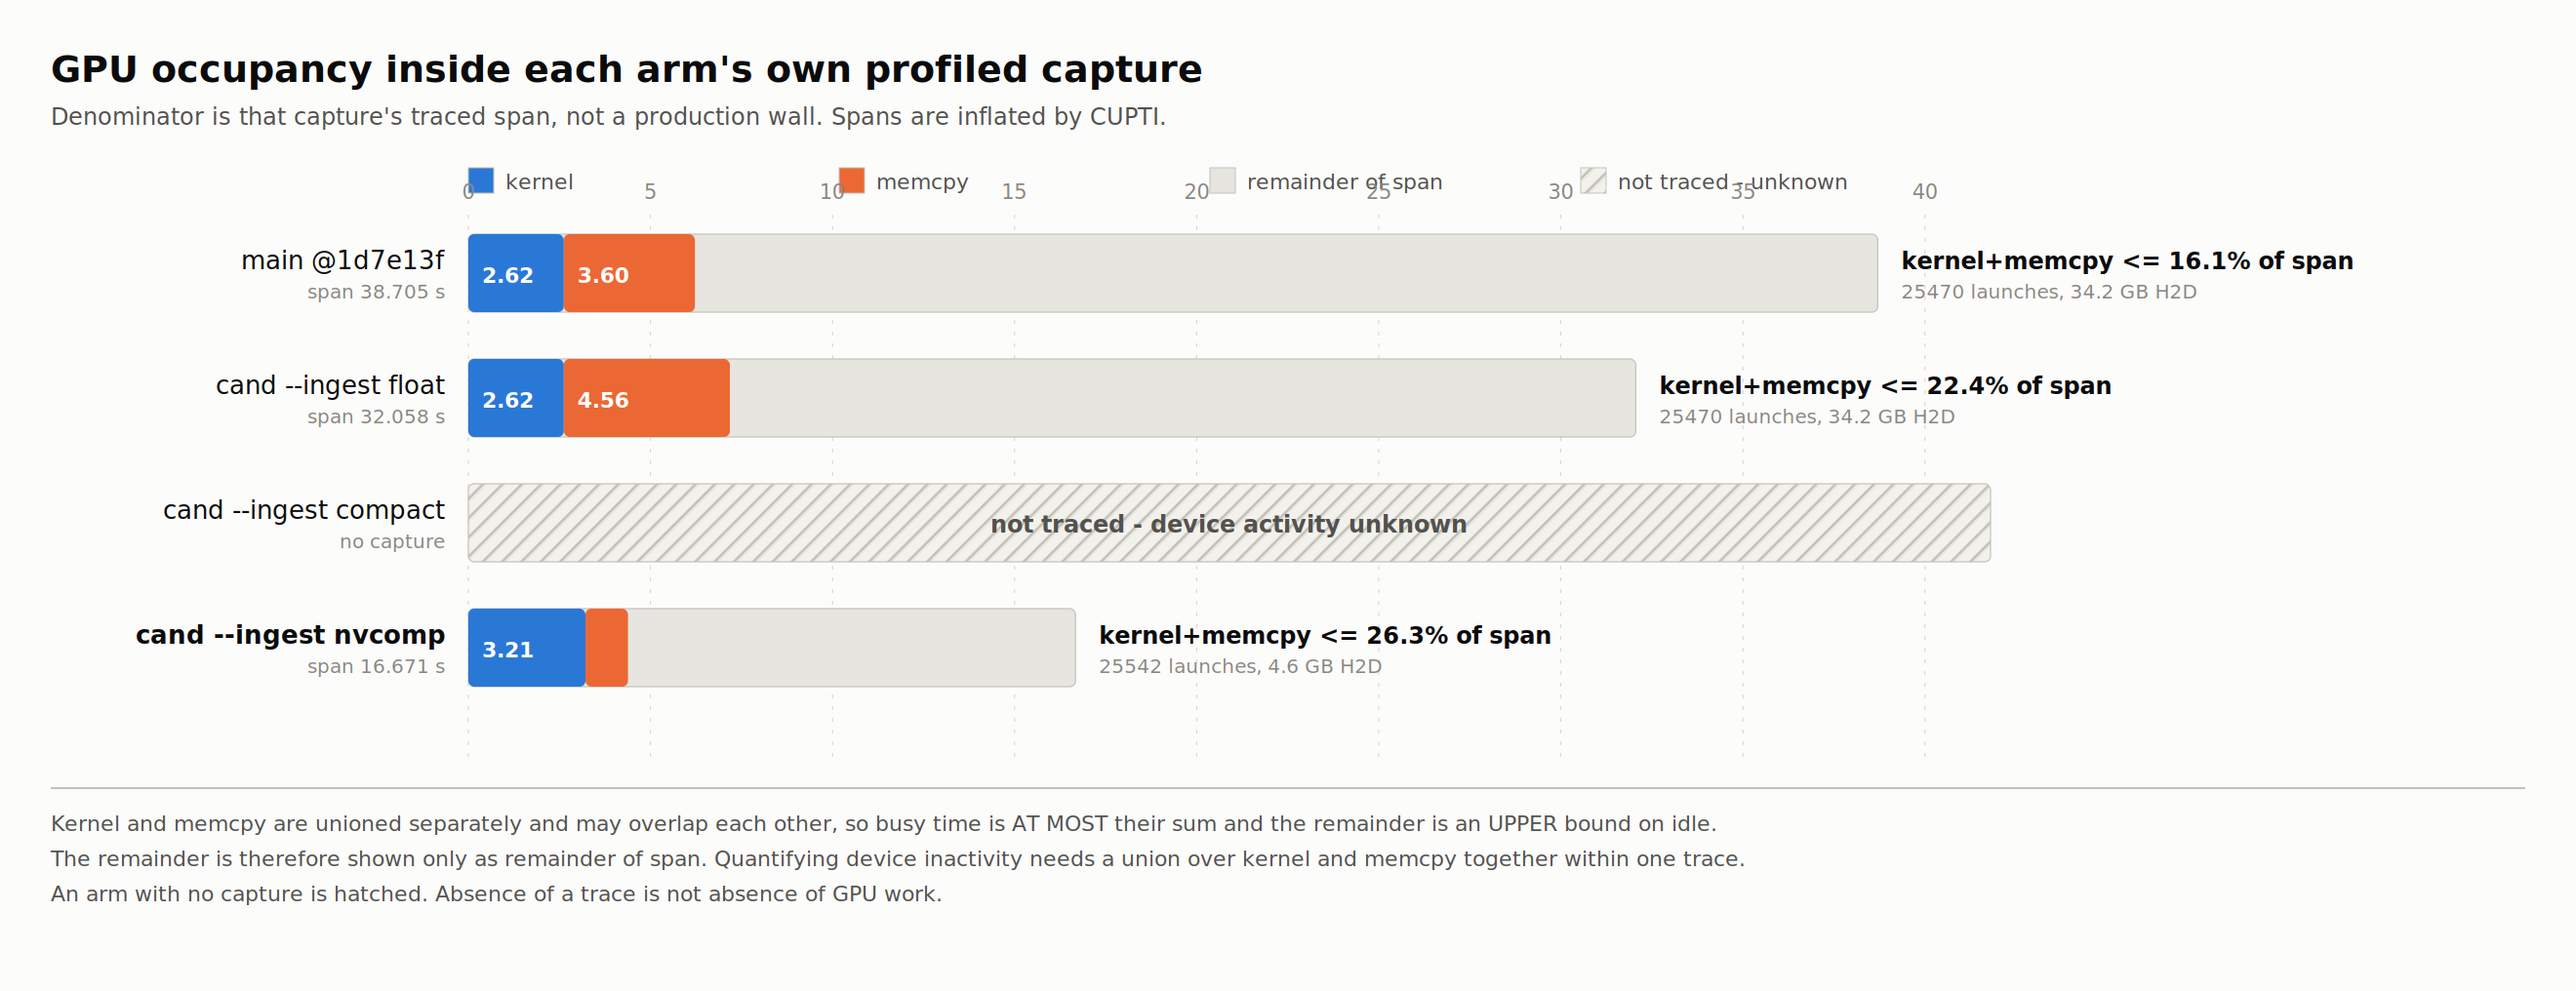
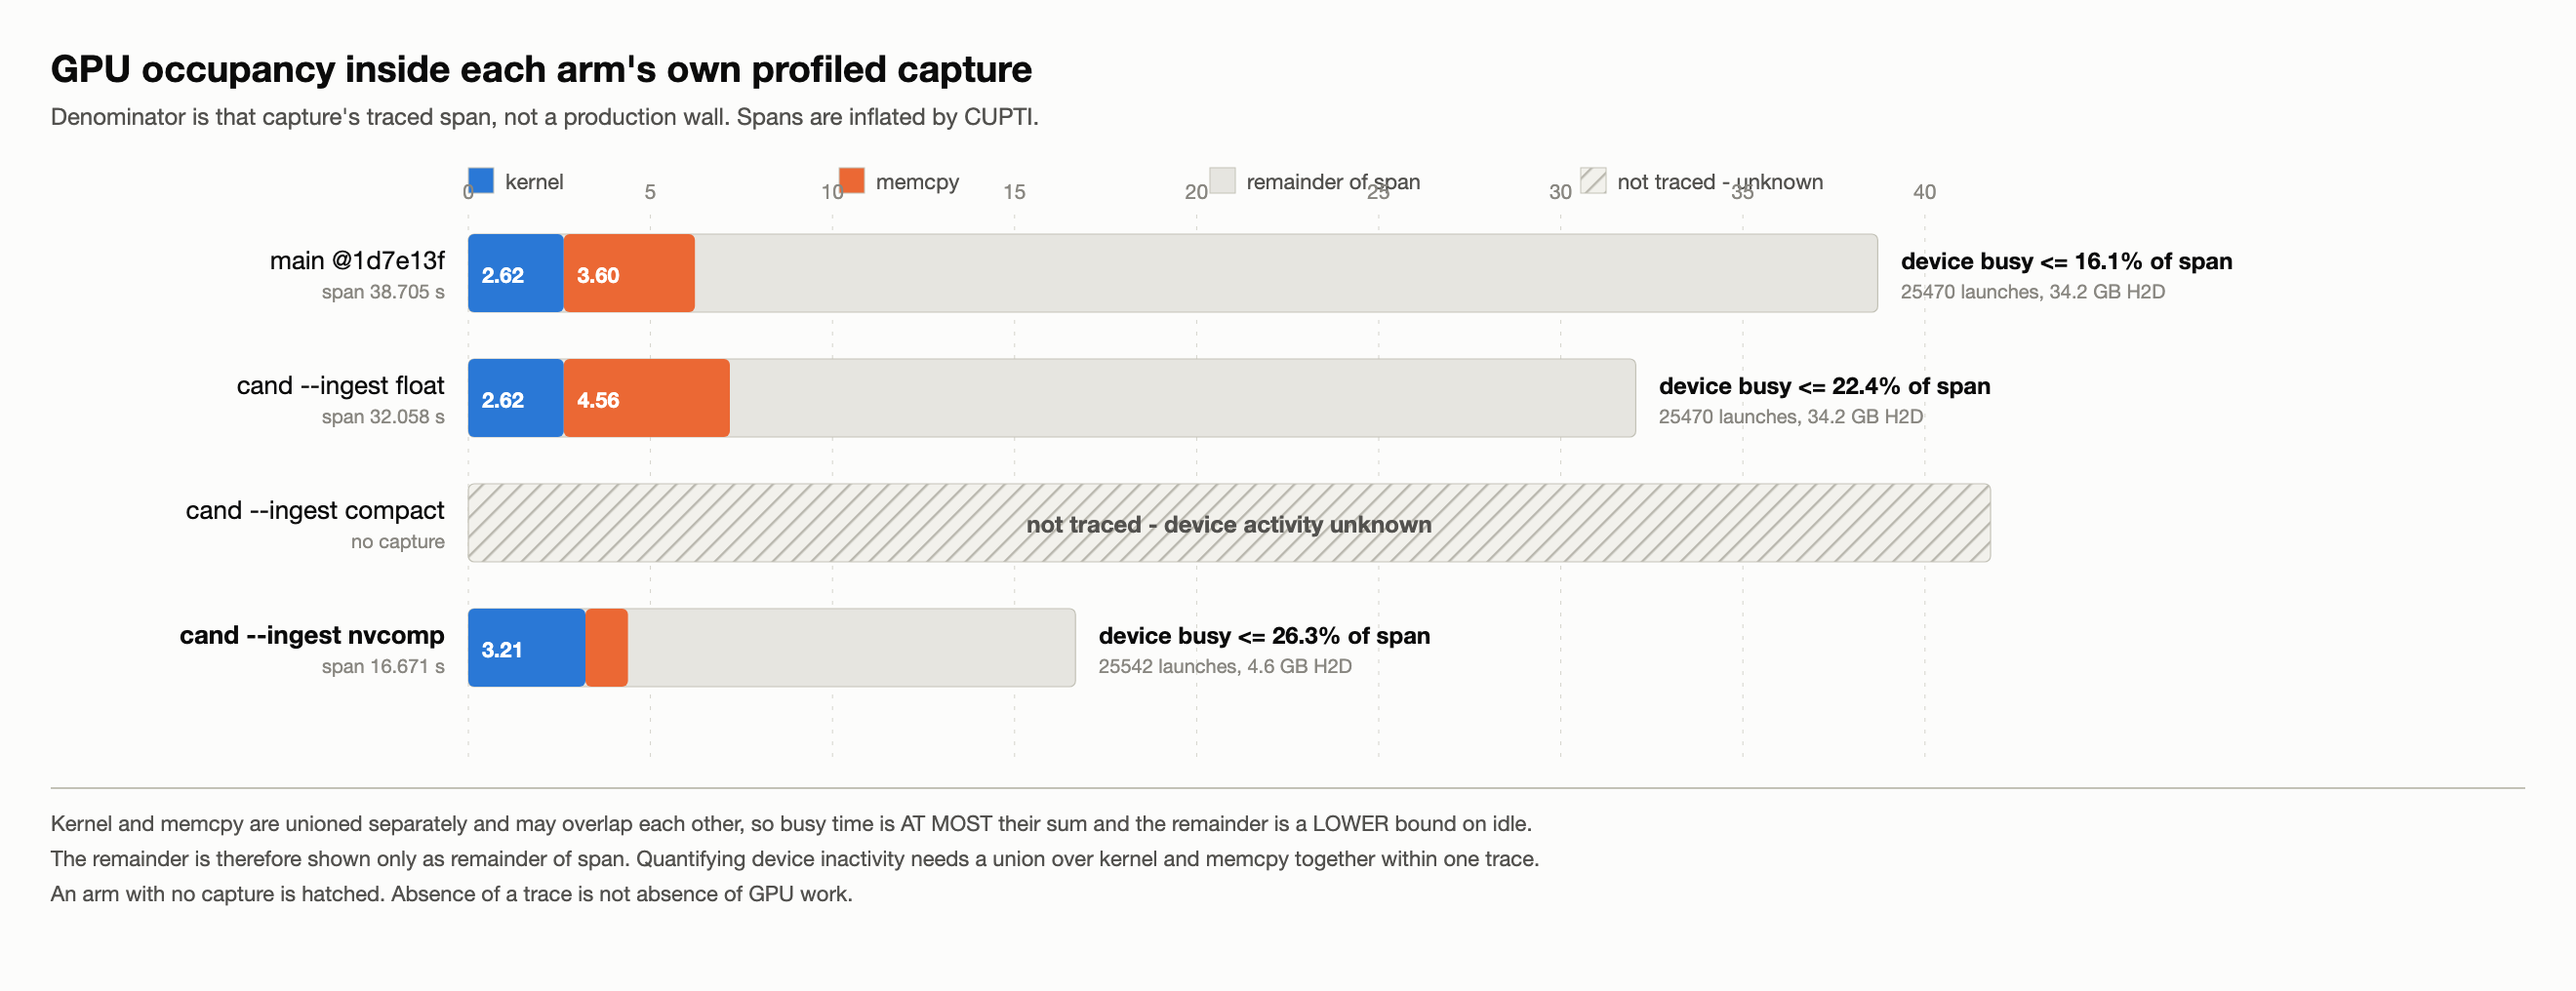
Correct profiling bounds and reject unbalanced NVTX instrumentation

diff --git a/tools/nsys_analysis/selftest.py b/tools/nsys_analysis/selftest.py
@@ -17,7 +17,7 @@ Needs no capture, no GPU and no network. Run from the repository root:
 Not registered with CTest: this directory is a documentation/tooling lane that
 touches no build files. Whoever next edits CMakeLists.txt should register it.
 """
-import ast, json, os, pathlib, subprocess, sys, tempfile
+import ast, json, os, pathlib, re, subprocess, sys, tempfile
 
 HERE = pathlib.Path(__file__).resolve().parent
 ROOT = HERE.parent.parent
@@ -78,6 +78,21 @@ for tag, src in samples.items():
               "%d push vs %d pop" % (out.count("RCTIC("), out.count("RCTOC(")))
         r2 = run([str(HERE / "patch_nvtx.py"), str(f)])
         check(tag + " refuses to double-patch", r2.returncode != 0, "re-patched an already patched tree")
+        first = re.search(r'RCTIC\((TIMING_[A-Z0-9_]+)\);', src)
+        if first:
+            start, end = first.group(0), 'RCTOC(' + first.group(1) + ');'
+            bad_sources = {
+                'missing-end': src.replace(end, '/* omitted end */', 1),
+                'misordered': src.replace(start, '__START__', 1).replace(end, start, 1).replace('__START__', end, 1),
+                'wrong-label': src.replace(end, 'RCTOC(TIMING_REVIEW_WRONG_LABEL);', 1),
+            }
+            for name, bad in bad_sources.items():
+                for flags in ([], ['-O']):
+                    f.write_text(bad)
+                    rr = run(flags + [str(HERE / 'patch_nvtx.py'), str(f)])
+                    check(tag + ' refuses ' + name + (' under -O' if flags else ''),
+                          rr.returncode != 0 and f.read_text() == bad,
+                          'accepted or modified invalid stage order')
 with tempfile.TemporaryDirectory() as td:
     f = pathlib.Path(td) / "bogus.cpp"; f.write_text("int main(){return 0;}\n")
     before = f.read_text()
@@ -109,8 +124,9 @@ else:
             check("device chart does not reinstate the old idle label",
                   "GPU idle (host-only work)" not in dv and ">GPU idle<" not in dv)
             check("device chart never calls the remainder idle",
-                  "idle" not in dv.lower().replace("upper bound on idle", "")
+                  "idle" not in dv.lower().replace("lower bound on idle", "")
                                          .replace("establishing real idle", ""))
+            check("device remainder has the correct idle bound", "LOWER bound on idle" in dv and "UPPER bound on idle" not in dv)
             check("device chart marks the untraced arm unknown", "not traced" in dv)
             check("device chart bounds busy rather than asserting it", "&lt;=" in dv or "<=" in dv)
         arms = json.loads(data.read_text())["arms"]

diff --git a/tools/nsys_analysis/patch_nvtx.py b/tools/nsys_analysis/patch_nvtx.py
@@ -1,13 +1,31 @@
 #!/usr/bin/env python3
 """Add NVTX ranges to MotionCorr by reusing the existing RCTIC/RCTOC stage
-markers. 35 RCTIC/RCTOC pairs, verified balanced and non-interleaved, so
-nvtxRangePush/Pop maps onto them one-for-one. Enabled only under -DMC_NVTX;
+markers. Marker labels are checked for balanced, properly nested textual order
+before writing. This is not a proof of every runtime control-flow path.
+Enabled only under -DMC_NVTX;
 the stock TIMING path and the no-op path are untouched."""
-import sys, re, sys, pathlib
+import sys, re, pathlib
 
 p = pathlib.Path(sys.argv[1] if len(sys.argv) > 1 else "src/motioncorr_runner.cpp")
 s = p.read_text()
 orig = s
+
+# Ignore comments, string/character literals and preprocessor definitions: only
+# literal stage call sites participate in the textual push/pop contract.
+code = re.sub(r'//[^\n]*|/\*[\s\S]*?\*/|"(?:\\.|[^"\\])*"|\'(?:\\.|[^\'\\])*\'',
+              lambda m: '\n' * m.group(0).count('\n'), s)
+code = re.sub(r'(?m)^[ \t]*#.*$', '', code)
+stack = []
+for marker in re.finditer(r'\bRCT(IC|OC)\(\s*(TIMING_[A-Z0-9_]+)\s*\)', code):
+    kind, label = marker.groups()
+    if kind == 'IC':
+        stack.append(label)
+    elif not stack or stack.pop() != label:
+        raise SystemExit('patch_nvtx: unbalanced/misordered stage marker ' + label +
+                         '; refusing without modifying source')
+if stack:
+    raise SystemExit('patch_nvtx: unclosed stage marker ' + stack[-1] +
+                     '; refusing without modifying source')
 
 # 1. Insert the MC_NVTX macro branch before the final #else of the TIMING block.
 labels = sorted(set(re.findall(r'\bRCT(?:IC|OC)\((TIMING_[A-Z0-9_]+)\)', s)))

diff --git a/tools/nsys_analysis/mkarms24.py b/tools/nsys_analysis/mkarms24.py
@@ -113,12 +113,12 @@ for a in arms:
     o.append(f'<rect x="{L+kw:.1f}" y="{y}" width="{mw:.1f}" height="{ROWH}" rx="3" fill="{MCPY}"/>')
     if kw > 30: o.append(T(L+7, y+25, "%.2f" % kern, 11, "#fff", "start", "bold"))
     if mw > 30: o.append(T(L+kw+7, y+25, "%.2f" % mcpy, 11, "#fff", "start", "bold"))
-    o.append(T(x(span)+12, y+18, "kernel+memcpy <= %.1f%% of span" % (100.0*(kern+mcpy)/span), 12, INK, "start", "bold"))
+    o.append(T(x(span)+12, y+18, "device busy <= %.1f%% of span" % (100.0*(kern+mcpy)/span), 12, INK, "start", "bold"))
     o.append(T(x(span)+12, y+33, "%d launches, %.1f GB H2D" % (a["launches"], a["h2d_bytes"]/1e9), 10, MUTED))
     y += ROWH + GAP
 o.append(f'<line x1="26" y1="{H-104}" x2="{W-26}" y2="{H-104}" stroke="{AXIS}"/>')
 o.append(T(26, H-82, "Kernel and memcpy are unioned separately and may overlap each other, so busy time is AT MOST "
-                     "their sum and the remainder is an UPPER bound on idle.", 11, INK2))
+                     "their sum and the remainder is a LOWER bound on idle.", 11, INK2))
 o.append(T(26, H-64, "The remainder is therefore shown only as remainder of span. Quantifying device inactivity needs a "
                      "union over kernel and memcpy together within one trace.", 11, INK2))
 o.append(T(26, H-46, "An arm with no capture is hatched. Absence of a trace is not absence of GPU work.", 11, INK2))

diff --git a/docs/single_gpu_execution_profile.md b/docs/single_gpu_execution_profile.md
@@ -284,8 +284,9 @@ persistence mode off, and the page cache is cold. The 2.42 s spike at movie 15 i
 main-lane only; the same movie is dead-median (0.634 s) in the nvcomp lane, so it is a
 transient in that run rather than a property of the movie.
 
-The GPU lane gets *denser*, not just shorter: busy share rises 16% → 26%. It is still
-idle three-quarters of the time.
+The upper bound on device busy share rises 16% → 26% in these captures. With kernel
+and memcpy unioned separately, the nvcomp capture is idle for at least about 74%
+of its traced span; an exact busy/idle fraction requires their joint union.
 
 ### The flame graph is where it is most obvious
 
@@ -319,8 +320,9 @@ per movie and never pooled, though its size is identical every time. Measured di
 the 24-movie trace, session setup plus teardown is **283 ms per movie (median), 7.0 s
 across the traced job**. (The one-movie figures of ~250 ms in and ~192 ms out would
 extrapolate to ~10.6 s; they do not, because the CUDA context and cuFFT modules are
-already warm after movie 1. The unprofiled run is 19% shorter overall, so the real figure
-is nearer 5–7 s.) nvcomp peaks 0.15 GiB higher (3.13 vs 2.98 GiB) for the compressed
+already warm after movie 1. The unprofiled run is 19% shorter overall; that does not
+establish an unprofiled setup/teardown cost, because profiler overhead is not uniform
+across stages.) nvcomp peaks 0.15 GiB higher (3.13 vs 2.98 GiB) for the compressed
 strips and inflate scratch. Neither arm exceeds 4% of an 80 GB card.
 
 ### What this does and does not establish
@@ -341,7 +343,8 @@ strips and inflate scratch. Neither arm exceeds 4% of an 80 GB card.
 
 ## 9. Acting on it
 
-Two changes measured against the `a294f3b` tip (197 commits ahead of main, already
+Two changes measured against the `a294f3b` tip (197 commits ahead of the historical
+baseline `1d7e13f`, already
 carrying PR130's alignment workspace reuse): `OMP_WAIT_POLICY=PASSIVE` gives −18 % CPU-
 seconds at no wall cost on the nvCOMP path, and retaining the device gain across movies
 gives −4.5 % wall, bit-exact. Together −4.7 % wall, −21.9 % CPU-seconds. Detail and raw

diff --git a/tools/nsys_analysis/README.md b/tools/nsys_analysis/README.md
@@ -25,7 +25,8 @@ python3 tools/nsys_analysis/selftest.py
 Runs every script's CLI against throwaway inputs: each one parses and imports what it
 uses, `arms24_json.py` reaches its input handling and creates its output directory,
 `patch_nvtx.py` patches each known `motioncorr_runner.cpp` generation and refuses an
-unsupported or already-patched one with a non-zero exit (including under `python -O`),
+unsupported, unbalanced, misordered or already-patched one with a non-zero exit
+(including under `python -O`),
 and `mkarms24.py` emits both charts without reinstating the cross-run idle label. No
 capture, GPU or network needed. It fails on the first version of this directory.
 
@@ -94,9 +95,11 @@ position is therefore named **`submit output`**, because it measures the handoff
 the writer thread, not the write. The writer drain lies inside the process wall but
 inside no NVTX range — it cannot be read off the stage table.
 
-`nvtxRangePush`/`Pop` is a stack: verify the pairs are balanced before trusting the
-output (38/38 at `1d7e13f`, 49/49 on current main, non-interleaved). Spans with an
-early `return` use an RAII guard, not bare push/pop.
+`nvtxRangePush`/`Pop` is a stack. Before writing, the script rejects missing,
+misordered and mismatched literal stage markers using explicit checks. This is a
+textual nesting check, not proof of every runtime branch or exception path. Verify
+runtime ranges before trusting a new capture. The per-movie range uses an RAII
+guard for early returns; existing RCTIC/RCTOC stages remain explicit push/pop pairs.
 
 ## Analysis
 

diff --git a/docs/profiling_20261001/OPTIMISATION_RESULTS.md b/docs/profiling_20261001/OPTIMISATION_RESULTS.md
@@ -7,10 +7,10 @@ CUDA 12.8, nvCOMP 5.3, Release/sm80, 24 tutorial movies, `--j 8`.
 Baseline here is **`a294f3b`** (tip of `experiment/post128-alignment-sync`), not `main`.
 That branch is 197 commits ahead of the profiled baseline `1d7e13f`, which is what this
 campaign labelled `main`. Against current main `c499b1d` the distance is 23 commits.
-It already contains PR130's per-movie
-alignment workspace reuse, which is why `patch align` costs 1.63 s here against 4.21 s at
-the profiled baseline `1d7e13f`
-in the stale `abd6827` trace quoted in the main report.
+It already contains PR130's per-movie alignment workspace reuse and the separate
+alignment-sync experiment. The main report's `patch align` figures, 4.21 s at
+`1d7e13f` and 1.63 s at `abd6827`, belong to that earlier capture campaign. They
+are not measurements of this `a294f3b` baseline or attribution of PR130's gain.
 
 Raw data: [`data_opt/`](data_opt/).
 
